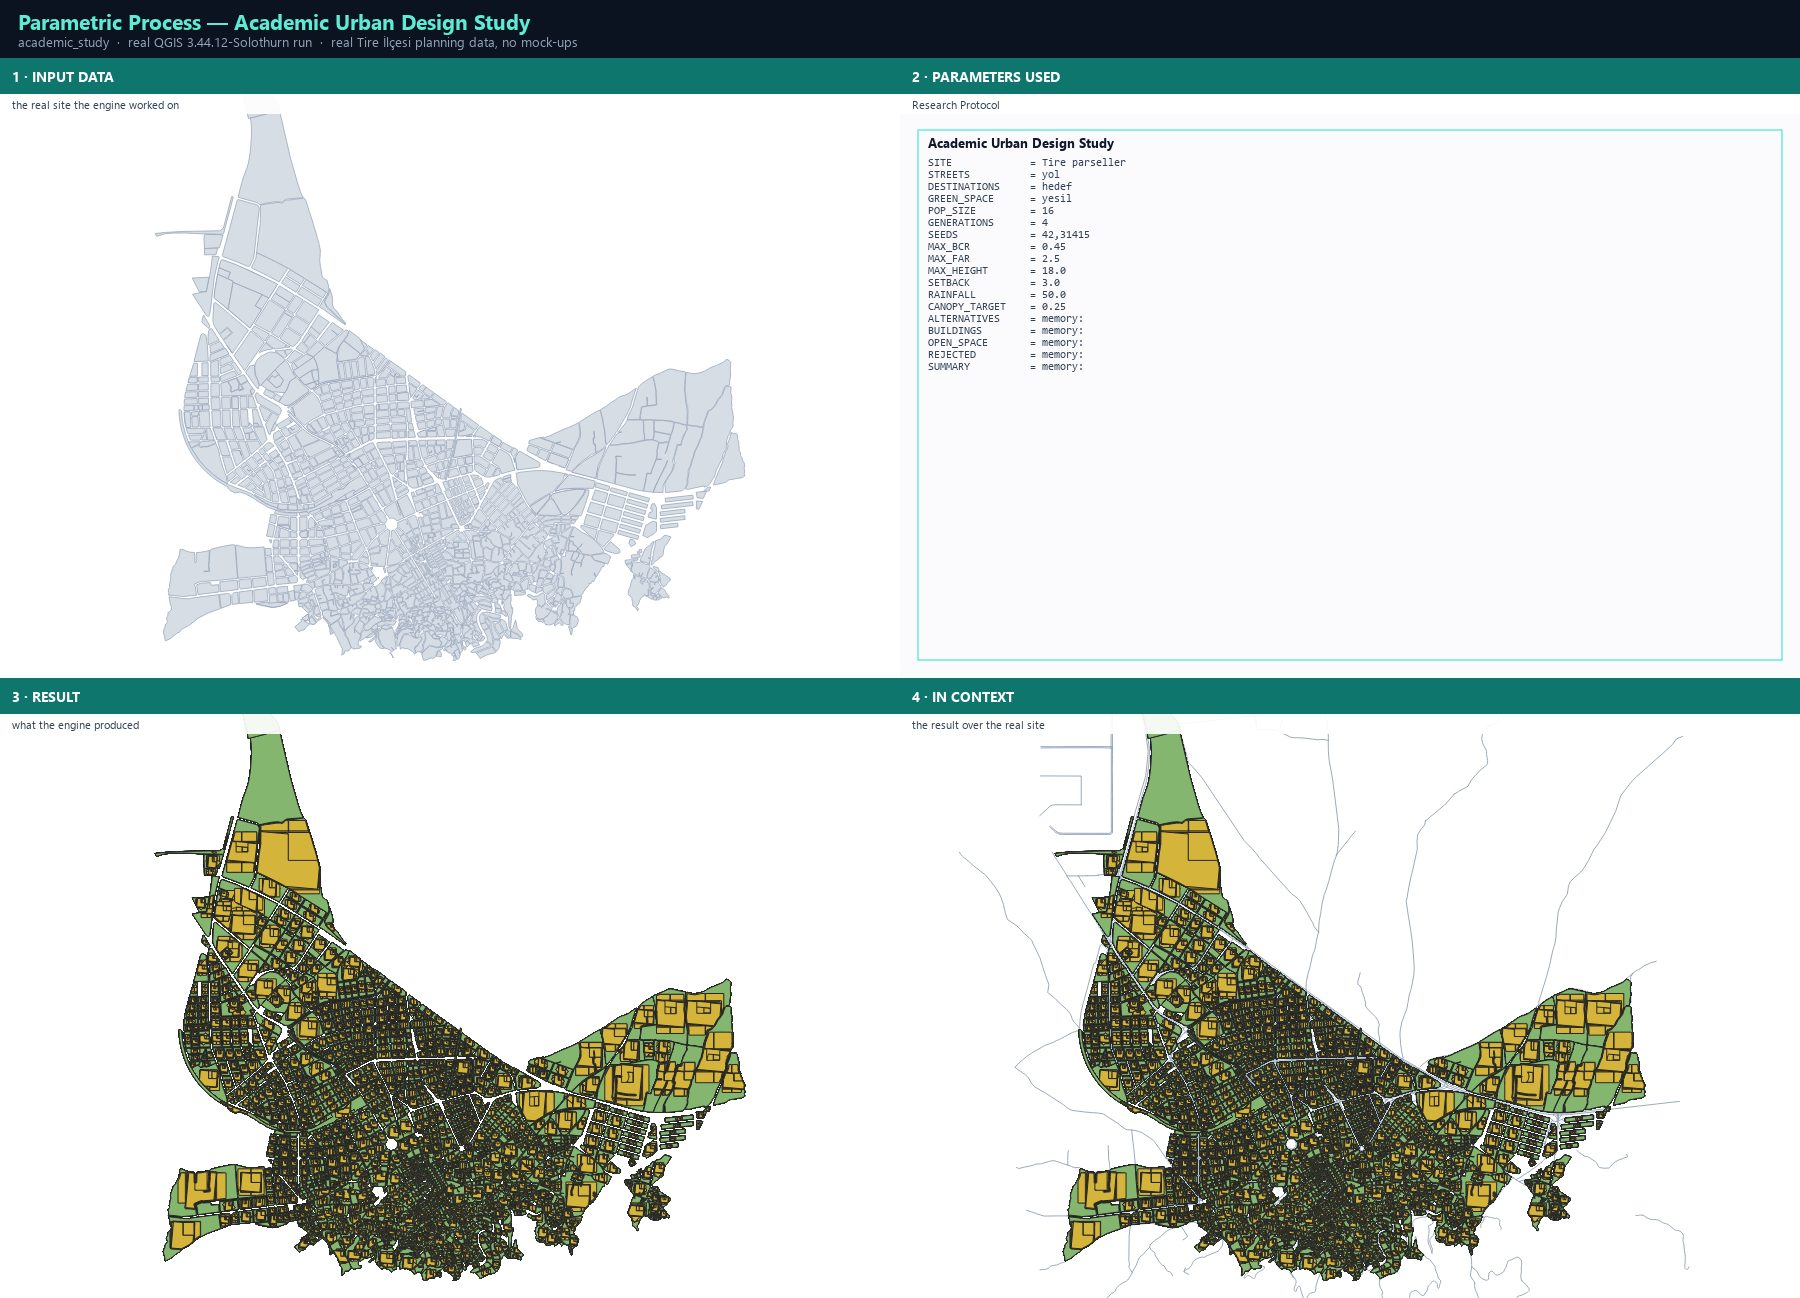
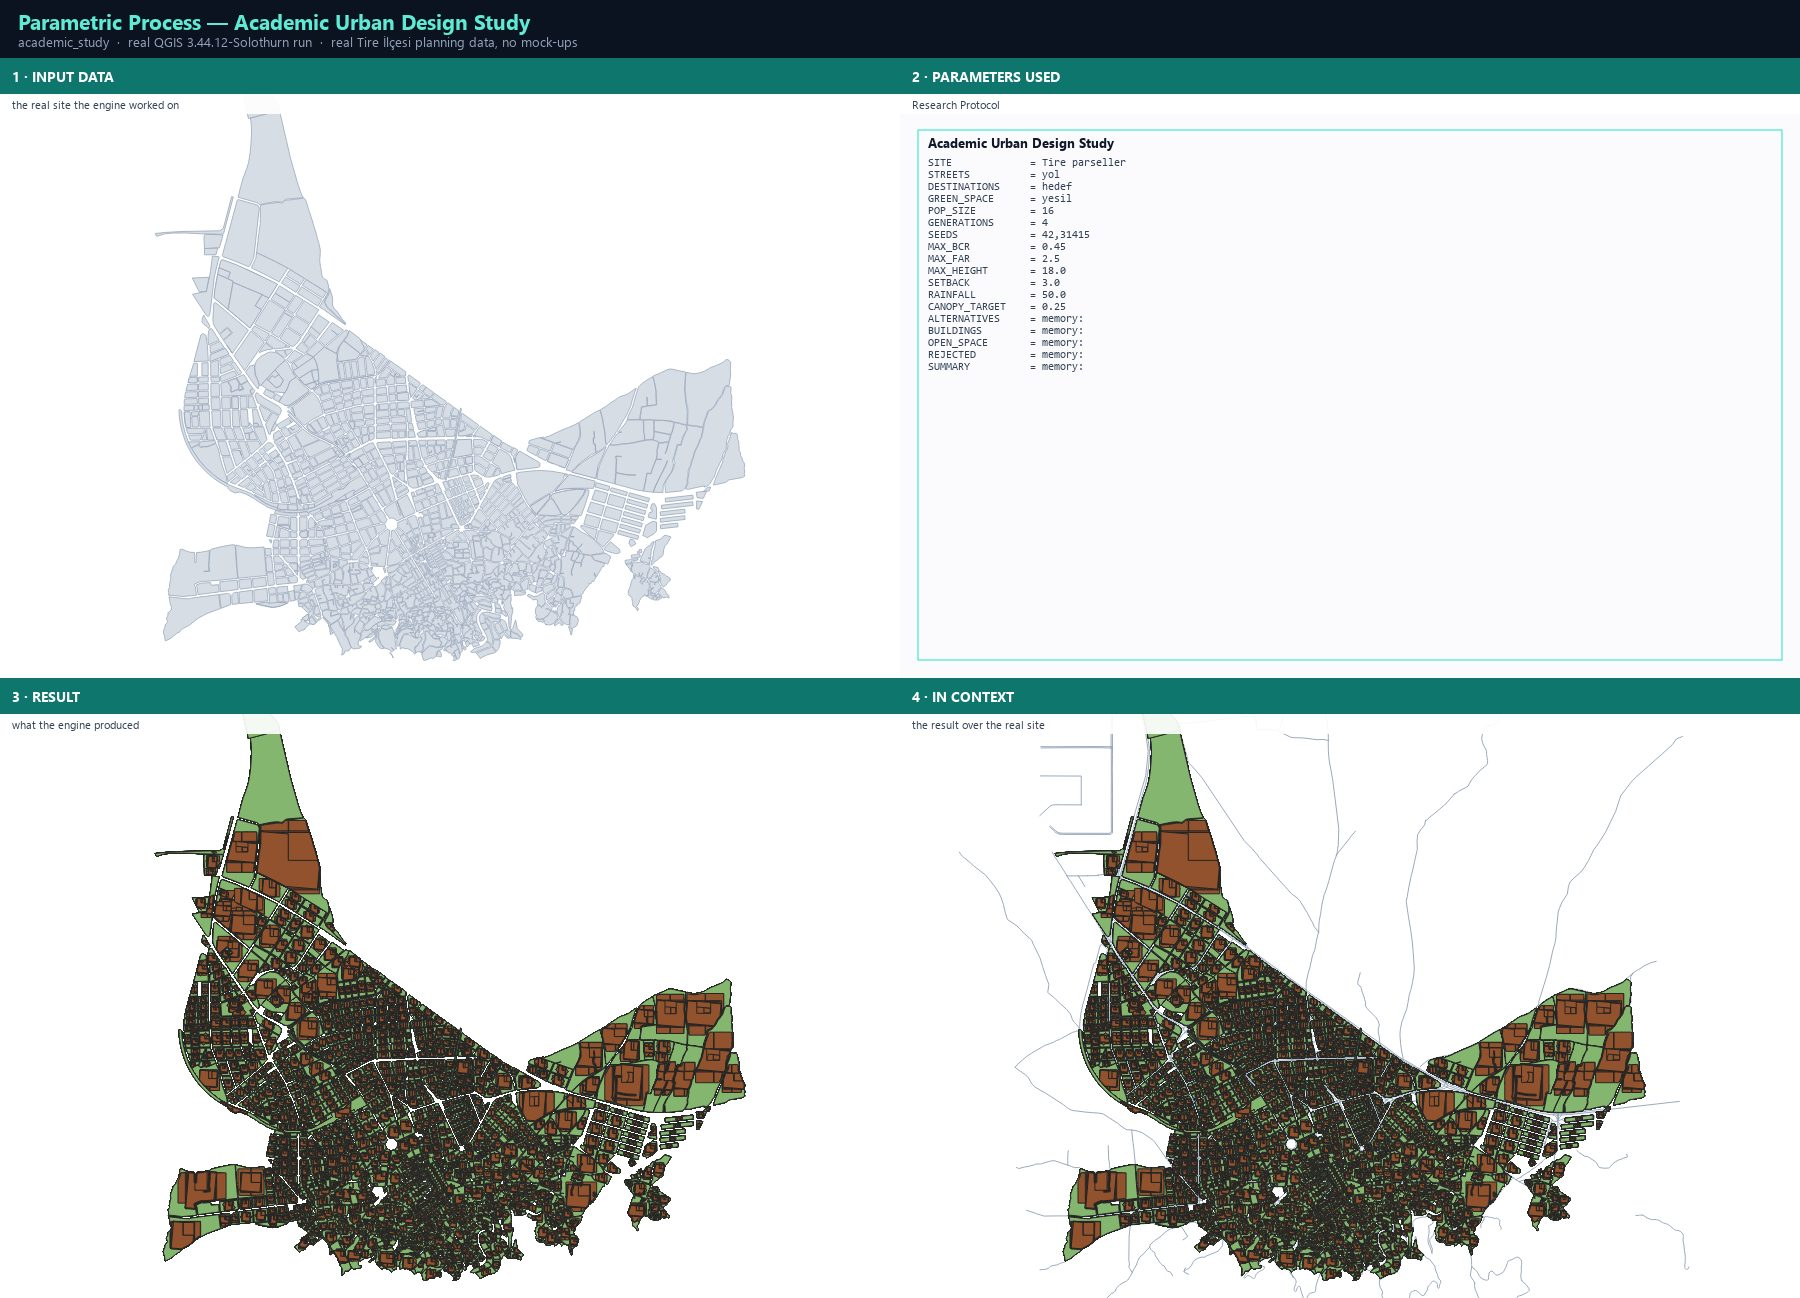
docs: select the design parcel layer in the studio-dock capture

Changed region(s): [[0.0933, 0.6163, 0.4044, 0.9861], [0.5911, 0.6163, 0.9333, 0.9861]]

diff --git a/docs/PRACTICAL_GUIDE/practical_guide_runner.py b/docs/PRACTICAL_GUIDE/practical_guide_runner.py
@@ -801,9 +801,18 @@ def run_studio_dock(data):
     for _ in range(10):
         QgsApplication.processEvents()
     with suppress(Exception):
-        idx = dock.layer_combo.findData(data.parcels.id())
+        combo = dock.layer_combo
+        idx = combo.findData(data.parcels.id())
+        if idx < 0:
+            idx = combo.findText(data.parcels.name())
+        if idx < 0:
+            for i in range(combo.count()):
+                layer = combo.layer(i)
+                if layer is not None and layer.id() == data.parcels.id():
+                    idx = i
+                    break
         if idx >= 0:
-            dock.layer_combo.setCurrentIndex(idx)
+            combo.setCurrentIndex(idx)
         QgsApplication.processEvents()
     for _ in range(6):
         QgsApplication.processEvents()
